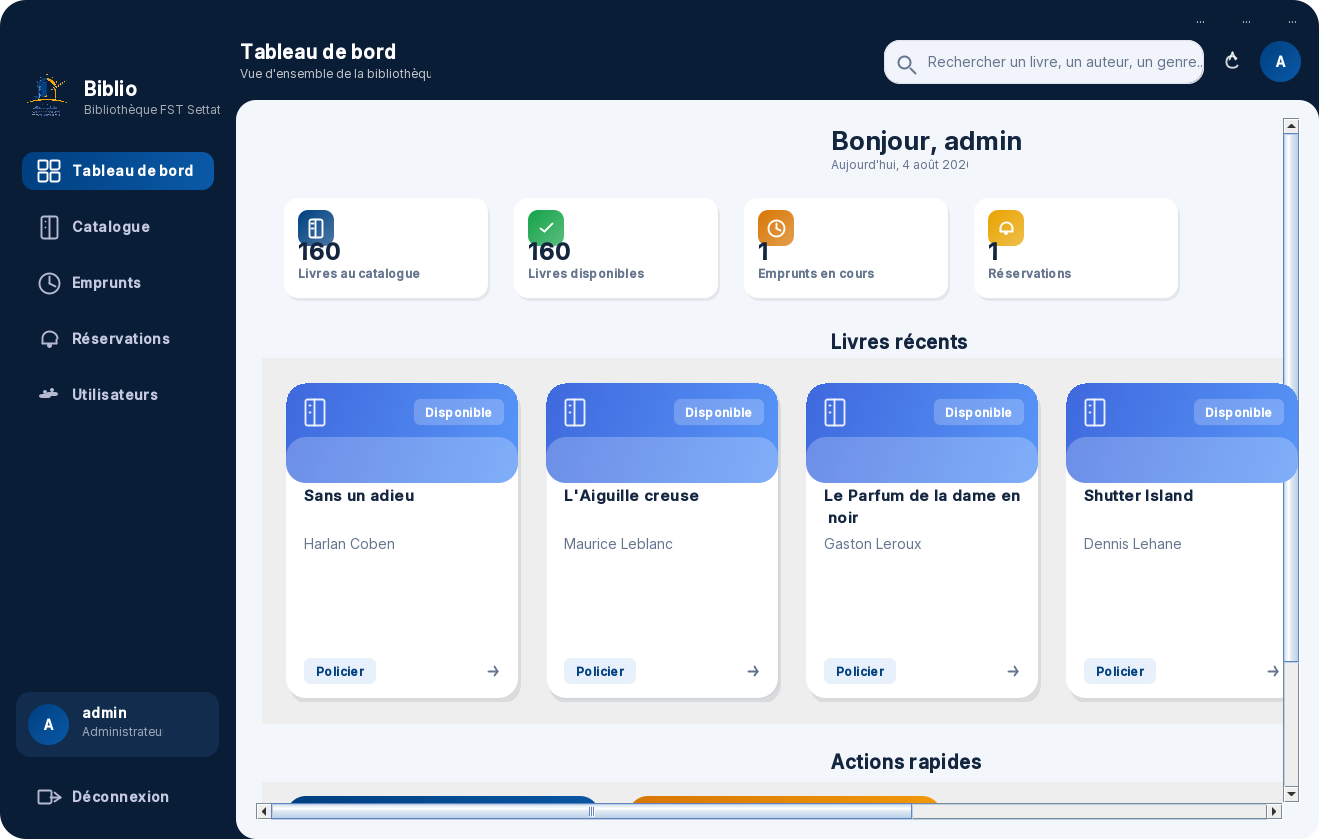
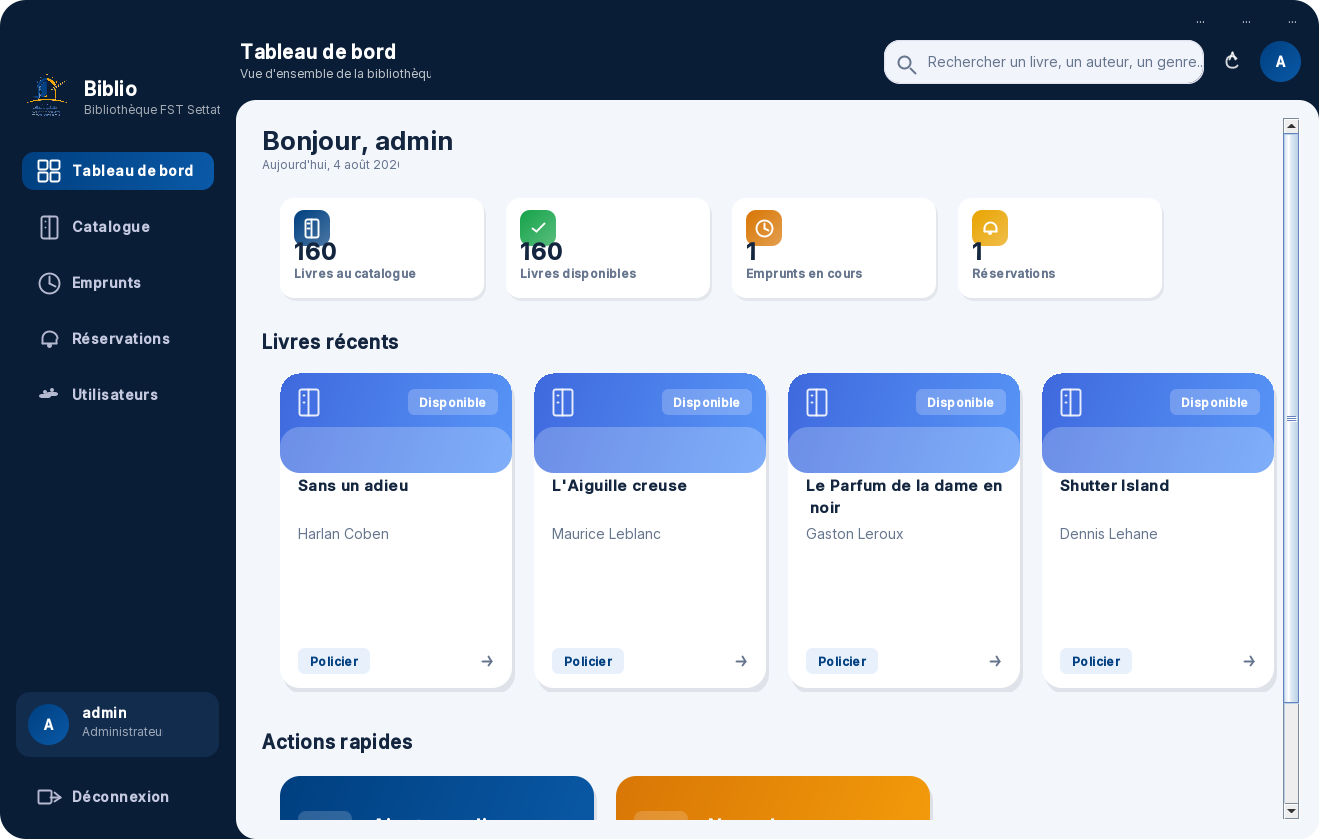
Fix DashboardView layout alignment and scrollbar behavior

diff --git a/src/gui/DashboardView.java b/src/gui/DashboardView.java
@@ -21,8 +21,8 @@ public class DashboardView extends JPanel {
     private final StatCard cDispo = new StatCard("Livres disponibles", Theme.SUCCESS, Icons.Kind.CHECK);
     private final StatCard cEmprunts = new StatCard("Emprunts en cours", Theme.AMBER, Icons.Kind.CLOCK);
     private final StatCard cResa = new StatCard("Réservations", Theme.ACCENT, Icons.Kind.BELL);
-    private final JPanel recentRow = new JPanel(new FlowLayout(FlowLayout.LEFT, 22, 22));
-    private final JPanel quickRow = new JPanel(new FlowLayout(FlowLayout.LEFT, 22, 10));
+    private final JPanel recentRow = new JPanel(new FlowLayout(FlowLayout.LEFT, 16, 12));
+    private final JPanel quickRow = new JPanel(new FlowLayout(FlowLayout.LEFT, 16, 10));
 
     public DashboardView(Utilisateur user, Runnable goCatalogue, Runnable refreshAll) {
         this.user = user;
@@ -37,6 +37,7 @@ public class DashboardView extends JPanel {
         sp.setOpaque(false);
         sp.setBorder(javax.swing.BorderFactory.createEmptyBorder());
         sp.getVerticalScrollBar().setUnitIncrement(16);
+        sp.setHorizontalScrollBarPolicy(JScrollPane.HORIZONTAL_SCROLLBAR_NEVER);
         add(sp, BorderLayout.CENTER);
     }
 
@@ -58,8 +59,9 @@ public class DashboardView extends JPanel {
         box.add(date);
         box.add(Box.createVerticalStrut(22));
 
-        JPanel stats = new JPanel(new FlowLayout(FlowLayout.LEFT, 20, 0));
+        JPanel stats = new JPanel(new FlowLayout(FlowLayout.LEFT, 16, 0));
         stats.setOpaque(false);
+        stats.setAlignmentX(LEFT_ALIGNMENT);
         stats.add(cTotal);
         stats.add(cDispo);
         stats.add(cEmprunts);
@@ -69,11 +71,15 @@ public class DashboardView extends JPanel {
         box.add(Box.createVerticalStrut(28));
         box.add(sectionLabel("Livres récents"));
         box.add(Box.createVerticalStrut(4));
+        recentRow.setOpaque(false);
+        recentRow.setAlignmentX(LEFT_ALIGNMENT);
         box.add(recentRow);
 
         box.add(Box.createVerticalStrut(26));
         box.add(sectionLabel("Actions rapides"));
         box.add(Box.createVerticalStrut(8));
+        quickRow.setOpaque(false);
+        quickRow.setAlignmentX(LEFT_ALIGNMENT);
         box.add(quickRow);
 
         return box;
@@ -103,7 +109,7 @@ public class DashboardView extends JPanel {
         recent.sort(Comparator.comparingInt(Livre::getId).reversed());
         int n = 0;
         for (Livre l : recent) {
-            if (n++ >= 6) break;
+            if (n++ >= 4) break;
             Livre copy = l;
             recentRow.add(new BookCard(l, isAdmin, () -> {
                 if (isAdmin) BookDialog.edit(this, copy, refreshAll);
